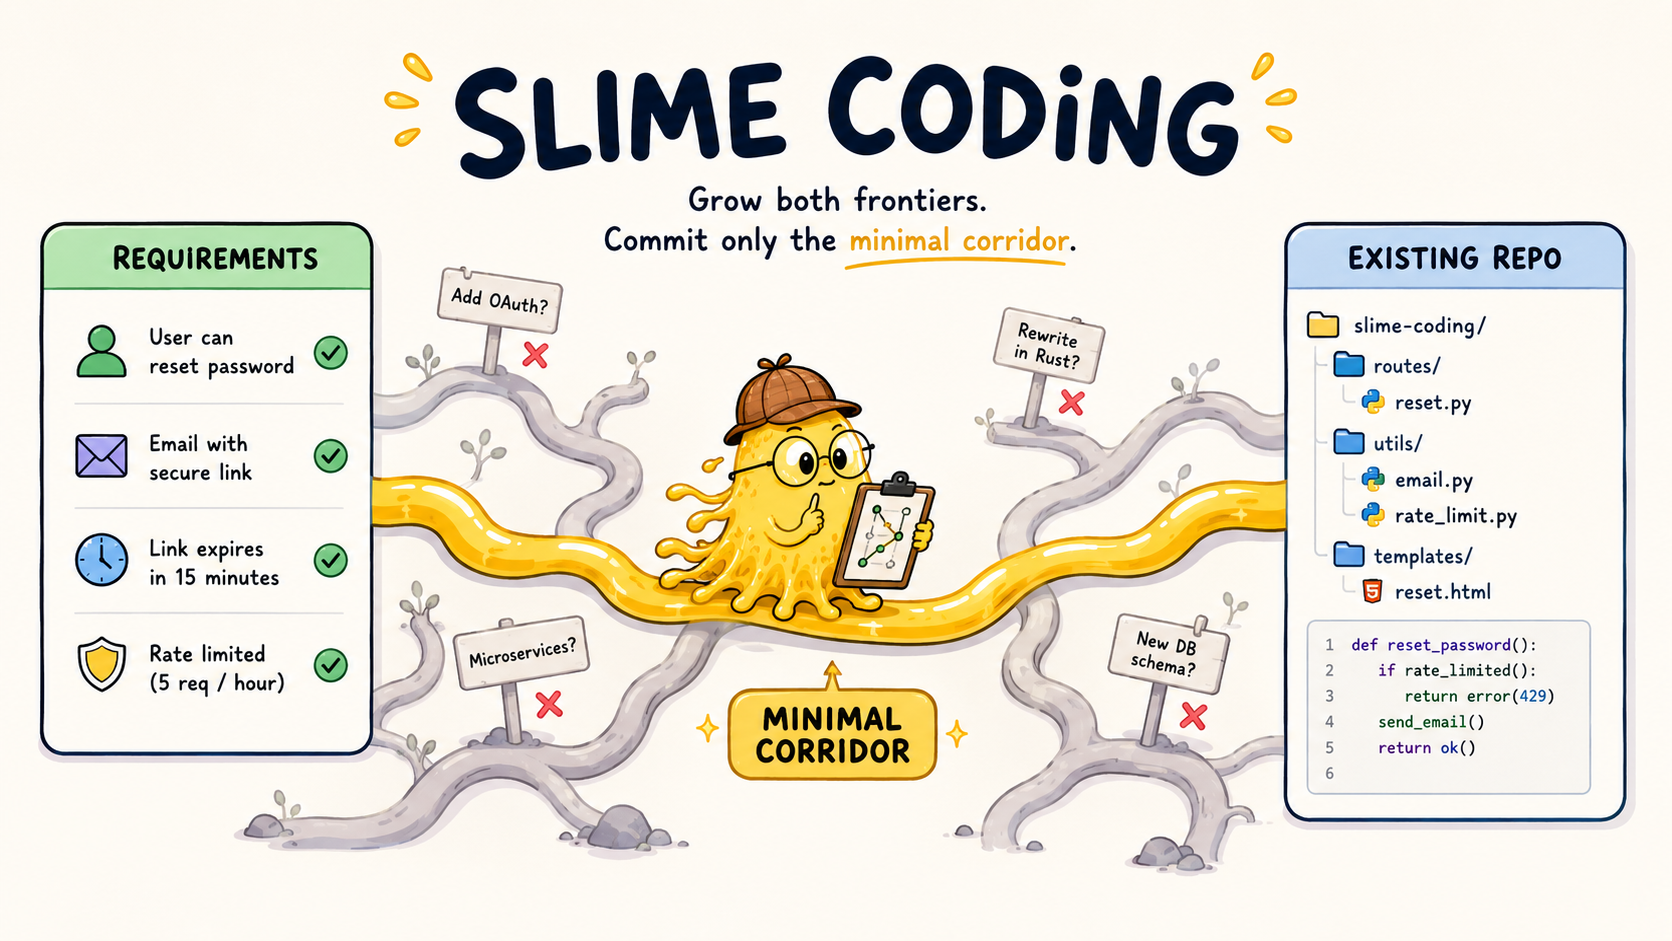
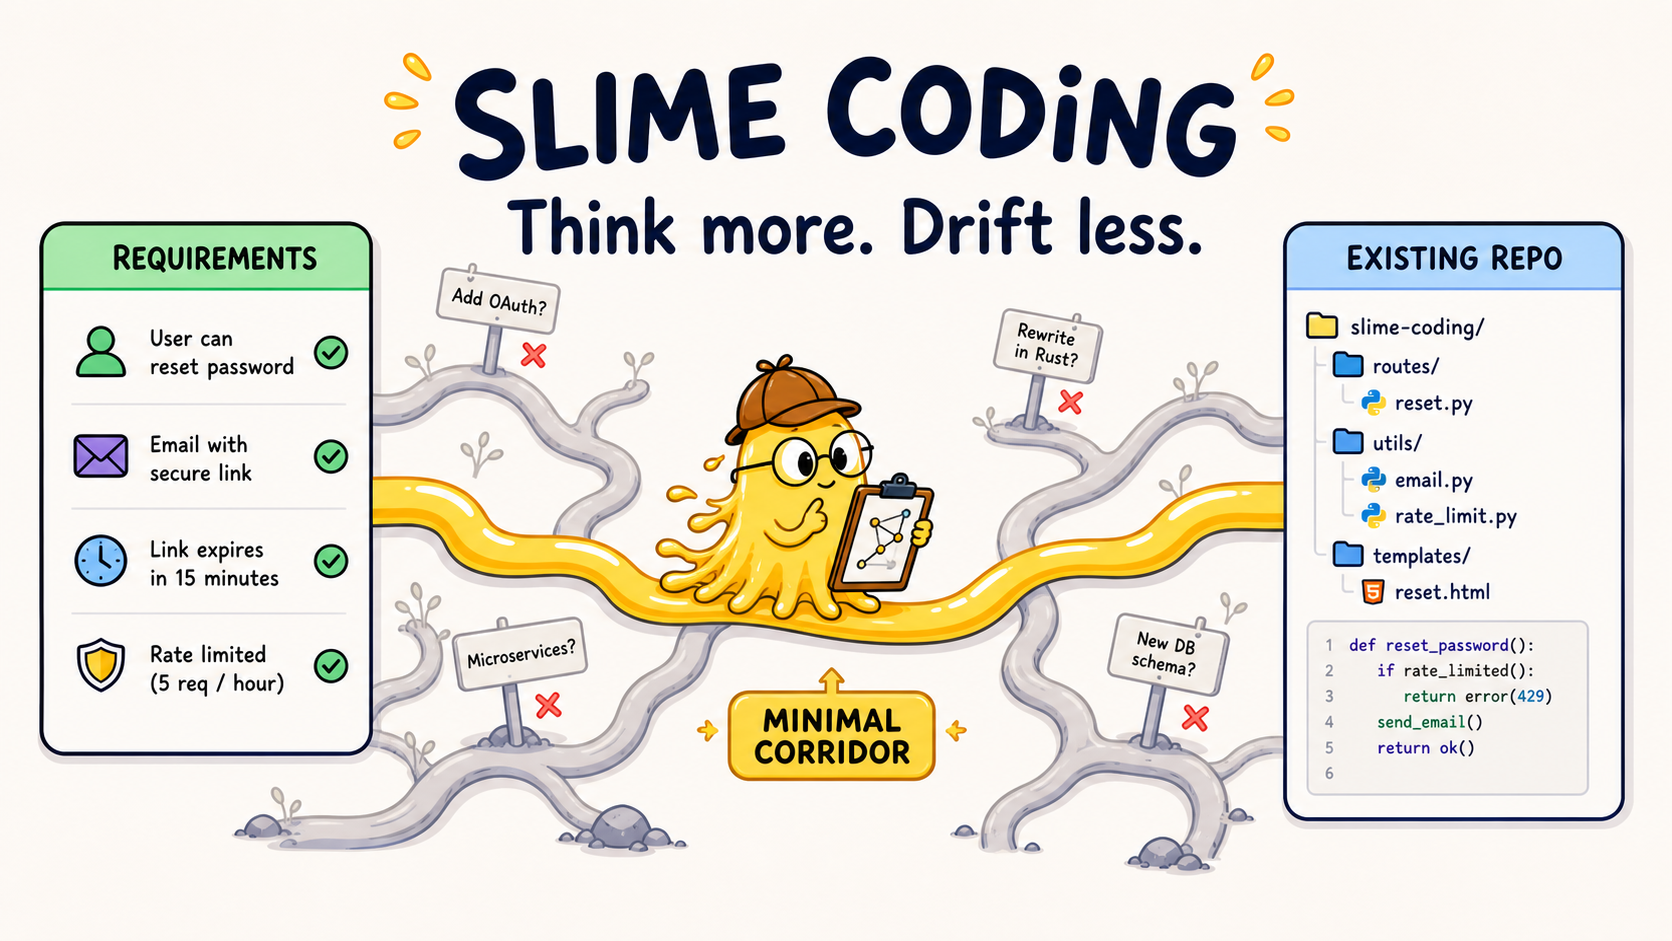
Refresh README positioning and hero subtitle

diff --git a/slime-coding/README.md b/slime-coding/README.md
@@ -2,49 +2,53 @@
 
 [![CI](https://github.com/shihchengwei-lab/slime-coding/actions/workflows/ci.yml/badge.svg)](https://github.com/shihchengwei-lab/slime-coding/actions/workflows/ci.yml)
 
-![Slime Coding — grow both frontiers, commit only the minimal corridor](assets/slime-coding.png)
+**Slime Coding — 讓最聰明的 AI，跟最沒腦的黏菌學會克制。**
 
-> **最小語義位移，不只是 diff 更小。** 228-cell Haiku benchmark snapshot：通過率 90.8% → 100.0%，總 LOC -24.3%，touched files -7.0%；代價是 cost +36.3%、tokens +44.3%、time +53.8%。
+![Slime Coding — Think more. Drift less.](assets/slime-coding.png)
 
-黏菌走迷宮，會從兩頭同時伸觸鬚出去找食物。碰到食物的觸鬚變粗、沒碰到的萎縮。最後留下的，就是兩點之間活下來的那條路——沒人「設計」它。
+每天用 AI 寫 code 的人都知道：現在的問題通常不是 AI 做不出來，而是它太容易把任務往外延伸。
 
-**Slime Coding** 把這條路長出來的方式，搬到 AI 寫程式上。
+它會加一層你沒要求的抽象、碰幾個本來不用碰的檔案、引入新套件、改掉既有資料流，甚至引用一個 repo 裡根本不存在的函數。功能最後也許能跑，但 diff 會多出一堆你沒有打算維護的東西。
 
-它追求的不是最少行數，而是**最小語義位移**：只改變這次需求必須改變的行為，不順手搬動既有架構、命名、資料流、API 和責任邊界。
+Slime Coding 管的是這件事：**最小語義位移**。
 
-想像你叫 AI「加一個登入功能」。常見的版本：它順手蓋了一個你沒要求的設定系統、為「之後可能會用到」鋪了一層抽象、改了五個檔——但你只想要登入。
+不是最小 diff，也不是最少行數。它在意的是：只改這次需求必須改的行為，不順手移動既有架構、命名、API、資料流和責任邊界。
 
-Slime Coding 讓 AI 也從兩頭伸觸鬚：
+## 它做什麼？
 
-- 一頭往**這次的需求**長——只從「加登入功能」這句話往下挖，需要什麼。
-- 另一頭往**現有的 code** 長——從專案已經有的東西往上找，哪裡可以接上。
+Slime Coding 不是再寫一段「請不要過度實作」給 AI 看。那種文字只是提醒，AI 忙起來會忘。
 
-兩頭碰上才動手；碰不上的方向被剪掉、記到一個檔案。下次 AI 一開始就看到上次否決過哪些方向。
+它把幾個容易失控的點接成自動關卡：
 
-→ 完整比喻：[`docs/CONCEPT.md`](docs/CONCEPT.md)
+- **動手前先框範圍**：AI 要先寫出這次要碰哪些檔案、要完成什麼、哪些事不做。沒框好就不能改專案程式碼。
+- **範圍外的修改會被擋**：如果 AI 順手改了不在範圍內的程式碼，收工時會被擋下來。
+- **新增套件會被擋**：AI 不能默默多加套件。要嘛說清楚為什麼留，要嘛拿掉。
+- **引用不存在的接點會被擋**：可選。你可以接型別檢查或語法檢查，讓 AI 不能靠想像中的 helper / class / API 收工。
+- **紅燈不能假裝完成**：如果你設定了測試指令，測試紅燈時 AI 不能直接收工。它要修綠，或把放棄的路記下來，避免下輪重走。
+- **commit message 會留下證據**：commit 時自動補上這次範圍、碰了哪些檔案、有沒有走廊外修改、有沒有新套件、怎麼驗證。
 
-## 怎麼做到？
+簡單說就是：
 
-寫在 `CLAUDE.md` 的「不要過度實作」是**請求**——AI 可以略過。Slime Coding 把它變成**自動關卡**：AI 每次想動 code 都會跑、跳不過。關卡只看明確的事實，不靠感覺判斷：
+> 多想一點，少偏離一點。
 
-- **AI 動手前，自己得先寫清楚「這次要碰哪幾個檔、目標是什麼」**。它寫好一個小檔（30 秒），你確認方向對，它才開始改。沒寫就連改一行都被自己的關卡擋住。
-  - 例外：`.gitignore`、`LICENSE` 這類跟程式邏輯無關的設定檔不用寫範圍就能改。
+## 什麼時候有用？
 
-- **AI 加進新套件會被擋**。要嘛它說明「為什麼要留」、要嘛拿掉，才能收工。
+適合：
 
-- **AI 引用一個不存在的函數或變數會被擋**（選用）。它有時候會用一個聽起來合理、但 repo 裡根本沒有的名字——關卡會跑一輪語法檢查、把這種「憑空捏的接點」拒收。
+- 你已經每天用 Claude Code / Codex / 其他 AI coding 工具改 repo。
+- 你的 repo 已經有架構、命名、helper、測試和約定。
+- 你在意 AI 不要把一個小需求擴成一串旁支。
+- 你常遇到「功能有做完，但 diff 看起來很不對」。
 
-- **被否決的方向留到下次**。下個 session 一開始 AI 就看到上次否決過哪些方向。
+不太適合：
 
-- **超出走廊的 product-code edit 會被擋**。如果真的有新 evidence，先更新走廊再做；如果只是順手多改，就縮回來。其他成本訊號（touched files、新檔、API 變動）會列出來給你看。
-
-- **commit message 會自動附上 Slime evidence**。每次 commit 時，它會把 corridor id、scope、semantic delta、allowed paths、touched files、走廊外檔案數、新依賴和驗證方式寫進 commit message，讓之後 review 時看得到「這個 diff 為什麼沒有亂長」。
-
-→ 機制細節：[`docs/DESIGN.md`](docs/DESIGN.md)
+- 一次性試作品。
+- 你就是想讓 AI 大幅重構。
+- 專案沒有測試、沒有型別檢查，也不在意檔案邊界。
 
 ## 怎麼用？
 
-每個你想用它的專案，各跑一次安裝：
+每個要套 Slime Coding 的專案，各跑一次：
 
 ```bash
 git clone <這個 repo> ~/slime-coding
@@ -52,19 +56,29 @@ cd /你的專案
 ~/slime-coding/install.sh .
 ```
 
-它會把關卡接上、把指令連好，也會安裝一個 Git `prepare-commit-msg` hook，讓 commit message 自動帶 Slime evidence。需要 `python3` 跟 `git`。安裝會備份你原本的設定、可以重跑、不會壞。
+安裝會做幾件事：
 
-最後手動一步：把 `templates/CLAUDE.slime.md` 的內容貼進你專案的 `CLAUDE.md`，這樣 AI 才知道紀律寫在哪。
+- 把 Claude 的自動關卡接進 `.claude/settings.json`。
+- 裝 `/slime-corridor` 和 `/slime-prune` 指令。
+- 建立 `.slime/corridor.md` 和 `.slime/PRUNED.md` 範本。
+- 接上 Git commit hook，讓 commit message 自動帶證據。
 
-## 目前驗證到哪？
+需要 `python3` 和 `git`。安裝可以重跑，會備份既有設定。
 
-還在實驗階段。
+最後手動一步：把 [`templates/CLAUDE.slime.md`](templates/CLAUDE.slime.md) 的內容貼進你專案的 `CLAUDE.md`，讓 AI 知道這套規則怎麼用。
 
-**機制層**：hook 在它宣稱要觸發的 git 事實上會觸發（沒走廊就擋編輯、新增依賴就擋收工、type checker 紅燈就擋收工），安裝可重跑、不壞既有設定。自動測試與 CI 用來守住這一層。
+## Benchmark 怎麼看？
 
-**效果層（裝了 Slime，AI 真的會降低語義位移嗎？）**：現在有一組可公開、但只算方向性的 benchmark。LOC 只是可見代理指標；真正目標是更少 touched surface、更少新概念、更少依賴/API 位移、更少走廊外改動。
+這不是「AI coding 已被解決」的證明，只是一個時間點快照：在同一批任務上，裝 Slime Coding 之後，AI 有沒有更少漂移。
 
-2026-06-29，用 Ponytail-derived task pool 跑 Claude Haiku：19 題，`baseline` / `ponytail` / `slime-coding` 三組，每題每組 4 次，共 228 個有效樣本。這是一個 dated snapshot：模型、Claude Code harness、Ponytail、Slime Coding 和題庫都可能隨時間漂移，數字不應被讀成穩定常數。429 額度失敗與 timeout 樣本已重跑；`slime-coding` 欄位使用目前預設的 strict corridor 版本。
[phone redacted]，用 Ponytail-derived task pool 跑 Claude Haiku：
+
+- 19 題
+- `baseline` / `ponytail` / `slime-coding` 三組
+- 每題每組 4 次
+- 共 228 個有效樣本
+- 429 額度失敗與跑太久中斷的樣本已重跑
+- `slime-coding` 使用目前預設的嚴格版本：範圍外程式碼修改會被擋
 
 | 組別 | 通過率 | touched files | 總 LOC | vs baseline LOC | 平均 cost | 平均 tokens | 平均時間 |
 |---|---:|---:|---:|---:|---:|---:|---:|
@@ -72,8 +86,35 @@ cd /你的專案
 | ponytail | 72/76 = 94.7% | 147 | 5055 | -12.0% | $0.1047 | 299k | 55.6s |
 | slime-coding | 76/76 = 100.0% | 107 | 4351 | -24.3% | $0.1223 | 478k | 76.6s |
 
-讀法很簡單：Slime 在這組任務提高通過率、減少 touched files、縮小總 diff，這是「語義位移變小」的外顯代理；代價是更多 token、更多錢、更久時間。Ponytail 更省 token、更快、更便宜；Slime 更保守，改動面更小。完整資料在 [`benchmark/`](benchmark/)。
+直覺讀法：
+
+- Slime Coding 在這批任務通過率最高。
+- 它碰的檔案最少。
+- 它產生的總 LOC 最少。
+- 代價是 token、時間、cost 都比較高。
+
+所以它不是省錢工具，也不是加速工具。它比較像一個保守的防護欄：多花一點思考成本，換比較小的改動面。
+
+完整資料在 [`benchmark/`](benchmark/)。
+
+## 限制
+
+- 它不是安全沙盒。真正的安全邊界還是權限、sandbox、CI、測試和人工 review。
+- 它不能判斷所有設計好壞，只能擋幾個明確事實：範圍外檔案、新套件、紅燈收工、型別檢查失敗。
+- 沒有測試或型別檢查的 repo，效果會打折。
+- 它會增加流程成本。benchmark 也顯示它更耗 token、時間和錢。
+
+如果你要的是「便宜、快、能跑就好」，這不是它的方向。
+
+如果你要的是「AI 可以寫，但不要把每個小需求都擴成一輪大改動」，這就是它想解的問題。
+
+## 更多細節
+
+- 概念說明：[`docs/CONCEPT.md`](docs/CONCEPT.md)
+- 機制設計：[`docs/DESIGN.md`](docs/DESIGN.md)
+- benchmark 原始資料：[`benchmark/`](benchmark/)
+- 變更紀錄：[`CHANGELOG.md`](CHANGELOG.md)
 
 ## License
 
-MIT — 見 [`LICENSE`](LICENSE)。變更紀錄在 [`CHANGELOG.md`](CHANGELOG.md)。
+MIT — 見 [`LICENSE`](LICENSE)。